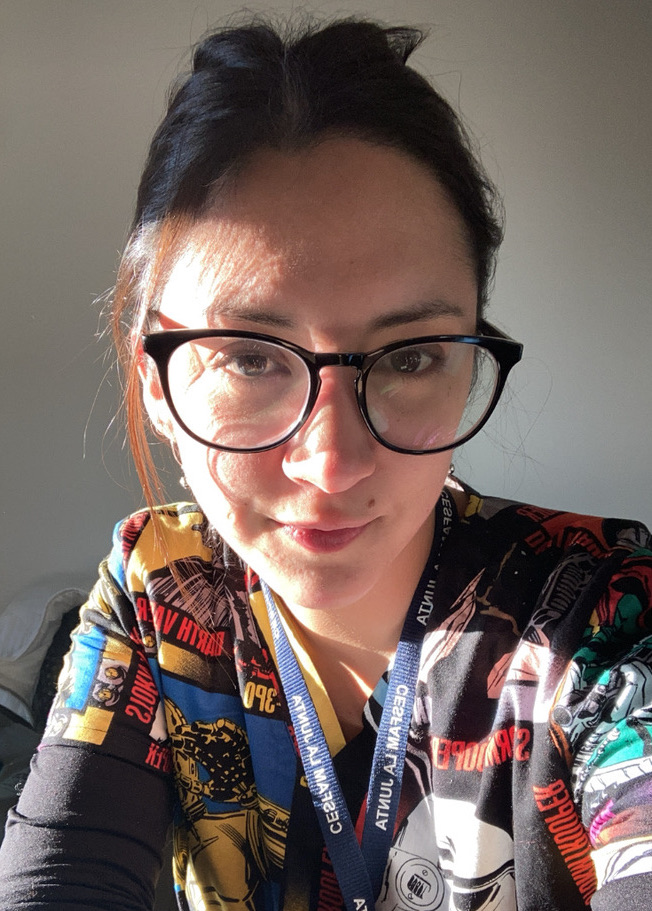
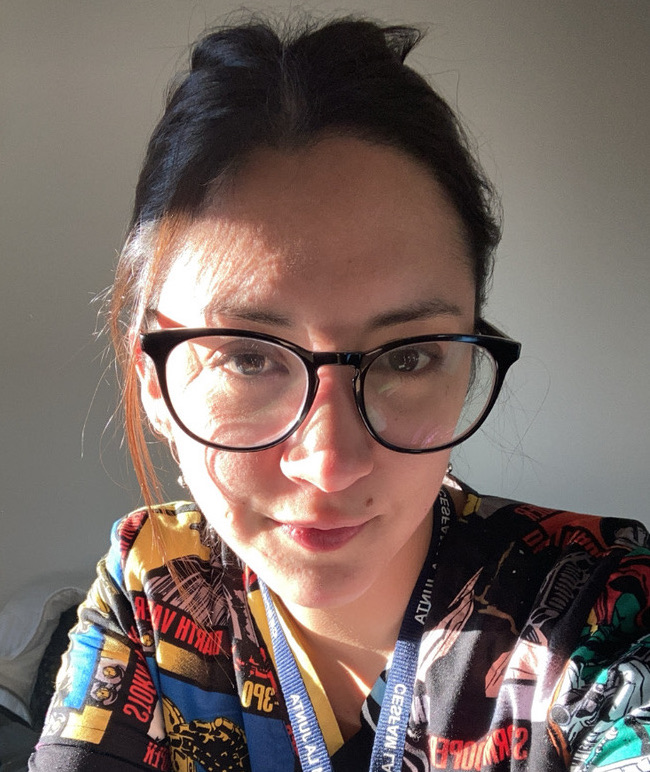
ajustes a navbar y foto de presentación

diff --git a/index.html b/index.html
@@ -29,13 +29,15 @@
     </head>
 
     <body>
-        <nav class="navbar navbar-expand-lg bg-white text-dark fixed-top">
+        <nav class="navbar navbar-expand-lg navbar-light text-dark bg-white fixed-top">
             <div class="container">
                 <a class="navbar-brand" href="#">
-                    <img src="assets/img/mi_logo2.png" class="img-fluid" width="180ox">
-                    </a>
+                    <img src="assets/img/mi_logo2.png" class="img-fluid"
+                        width="150px">
+                </a>
                 <button class="navbar-toggler" type="button"
                     data-bs-toggle="collapse"
+                    data-bs-target="#navbarSupportedContent"
                     aria-controls="navbarSupportedContent" aria-expanded="false"
                     aria-label="Toggle navigation">
                     <span class="navbar-toggler-icon"></span>
@@ -75,22 +77,24 @@
                         Intervención fonoaudiológica <br> y atención temprana
                     </h1>
                     <div class="mb-5 pb-5">
-                        <a class="btn btn-lg btn-info text-light"href="#Contacto">Contacto</a>
+                        <a class="btn btn-lg btn-info text-light"
+                            href="#Contacto">Contacto</a>
                     </div>
                 </div>
             </div>
         </header>
 
         <!--SECTION SOBRE MÍ-->
-        <section id="Sobre-mí">
-            <h2 class="display-4 fw-bold text-center my-4">Sobre mí</h2>
-            <table class="m-5">
-                <tr>
-                    <td>
-                        <img src="assets/img/foto_presentacion.jpeg" class="rounded-circle" alt="foto presentación"
-                            width="100%"> 
-                    </td>
-                    <td>
+        <section id="Sobre-mí" class="my-5 py-5">
+            <h2 class="display-4 fw-bold text-center text-secondary m-5 p-4">Sobre mí</h2>
+            <div class="container">
+                <div class="row">
+                    <div class="col-12 col-md-4">
+                        <img src="assets/img/foto_presentacion.jpeg"
+                            class="rounded-end" alt="foto presentación"
+                            width="100%">
+                    </div>
+                    <div class="col-12 col-md-8">
                         <p class="my-5 text-center">
                             ¡Hola! Soy principiante en programación, desarrollo
                             web y fonoaudióloga con un firme compromiso de
@@ -99,10 +103,12 @@
                             mi experiencia labroral, formación académica y mis
                             primeros proyectos en desarrollo web con Desafío
                             Latam.
-                        </p></td>
-                </tr>
-            </table>
+                        </p>
+                    </div>
+                </div>
+            </div>
         </section>
+
         <hr id="Educación" class="my-5">
         <!--SECTION 1 EDUCACIÓN-->
         <section class="container text-center py-5">
@@ -193,9 +199,12 @@
                             <div class="card-body">
                                 <h5 class="card-title fw-bold">Desafío HTML</h5>
                                 <p class="card-text">
-                                    Creación de un Curriculum vitae utilizando HTML.
+                                    Creación de un Curriculum vitae utilizando
+                                    HTML.
                                 </p>
-                                <a class="btn btn-outline-info" href="https://github.com/bevasquez/primer_desafio" target="_blank">Ver más</a>
+                                <a class="btn btn-outline-info"
+                                    href="https://github.com/bevasquez/primer_desafio"
+                                    target="_blank">Ver más</a>
                             </div>
                         </div>
                     </div>
@@ -207,9 +216,12 @@
                                 <h5 class="card-title fw-bold">Landing page
                                     utilizando CSS</h5>
                                 <p class="card-text">
-                                    Página de tienda con catálogo, aplicando CSS.
+                                    Página de tienda con catálogo, aplicando
+                                    CSS.
                                 </p>
-                                <a class="btn btn-outline-info" href="https://github.com/bevasquez/segundo_desafio" target="_blank">Ver más</a>
+                                <a class="btn btn-outline-info"
+                                    href="https://github.com/bevasquez/segundo_desafio"
+                                    target="_blank">Ver más</a>
                             </div>
                         </div>
                     </div>
@@ -218,18 +230,21 @@
                             <div class="image-top"
                                 style="background-image: url(assets/img/desafio3.png)"></div>
                             <div class="card-body">
-                                <h5 class="card-title fw-bold">Alineando contenido
+                                <h5 class="card-title fw-bold">Alineando
+                                    contenido
                                     con Flex</h5>
                                 <p class="card-text">
                                     Replicar maqueta aplicando conocimiento de
                                     display flex.
                                 </p>
-                                <a class="btn btn-outline-info" href="https://github.com/bevasquez/tercer_desafio" target="_blank">Ver más</a>
+                                <a class="btn btn-outline-info"
+                                    href="https://github.com/bevasquez/tercer_desafio"
+                                    target="_blank">Ver más</a>
 
                             </div>
                         </div>
                     </div>
-    
+
                     <div class="col-12 col-sm-4 py-2">
                         <div class="card">
                             <div class="image-top"
@@ -238,14 +253,17 @@
                                 <h5 class="card-title fw-bold">Proyecto con
                                     Bootstrap</h5>
                                 <p class="card-text">
-                                    Creación de página utilizando herramientas de
+                                    Creación de página utilizando herramientas
+                                    de
                                     Bootstrap.
                                 </p>
-                                <a class="btn btn-outline-info" href="https://github.com/bevasquez/cuarto_desafio" target="_blank">Ver más</a>
+                                <a class="btn btn-outline-info"
+                                    href="https://github.com/bevasquez/cuarto_desafio"
+                                    target="_blank">Ver más</a>
                             </div>
                         </div>
                     </div>
-    
+
                     <div class="col-12 col-sm-4 py-2">
                         <div class="card">
                             <div class="image-top"
@@ -253,14 +271,17 @@
                             <div class="card-body">
                                 <h5 class="card-title fw-bold">CV en Github</h5>
                                 <p class="card-text">
-                                    Personalizar CV clonando repositorio de GitHub.
+                                    Personalizar CV clonando repositorio de
+                                    GitHub.
                                 </p>
-                                <a class="btn btn-outline-info" href="https://github.com/bevasquez/fdsw-github" target="_blank">Ver más</a>
+                                <a class="btn btn-outline-info"
+                                    href="https://github.com/bevasquez/fdsw-github"
+                                    target="_blank">Ver más</a>
                             </div>
                         </div>
                     </div>
                 </div>
-            </div>  
+            </div>
         </section>
 
         <section id="Contacto" class="container my-5">
